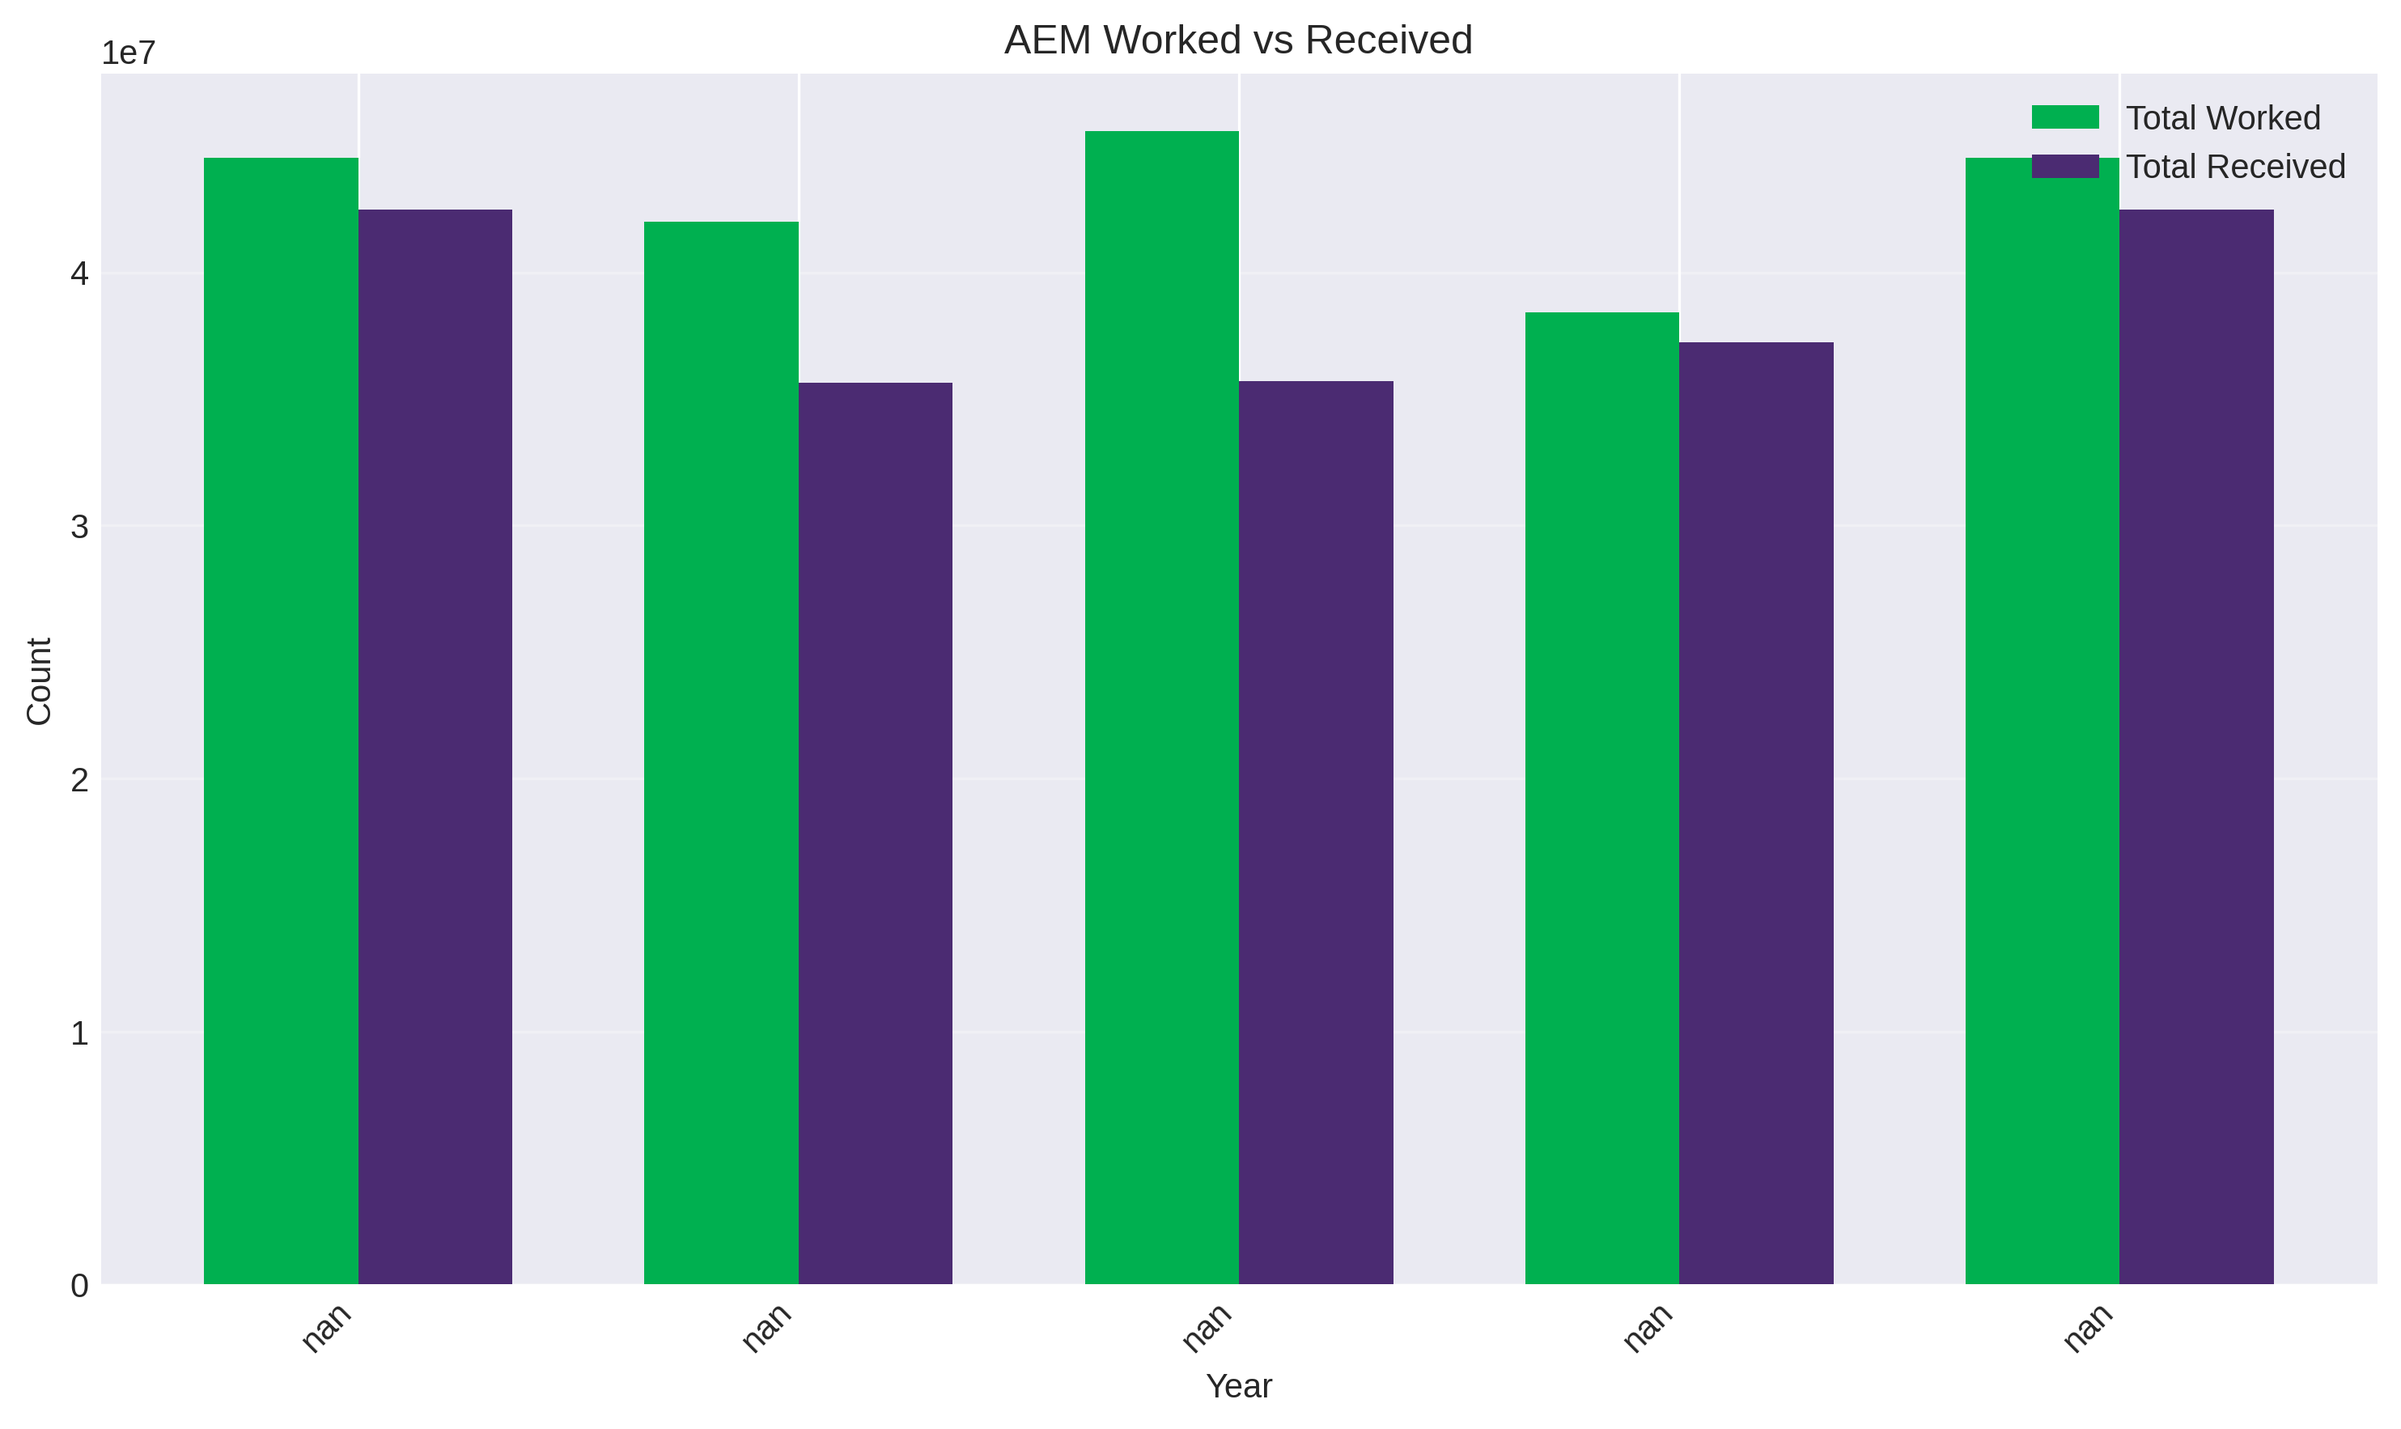
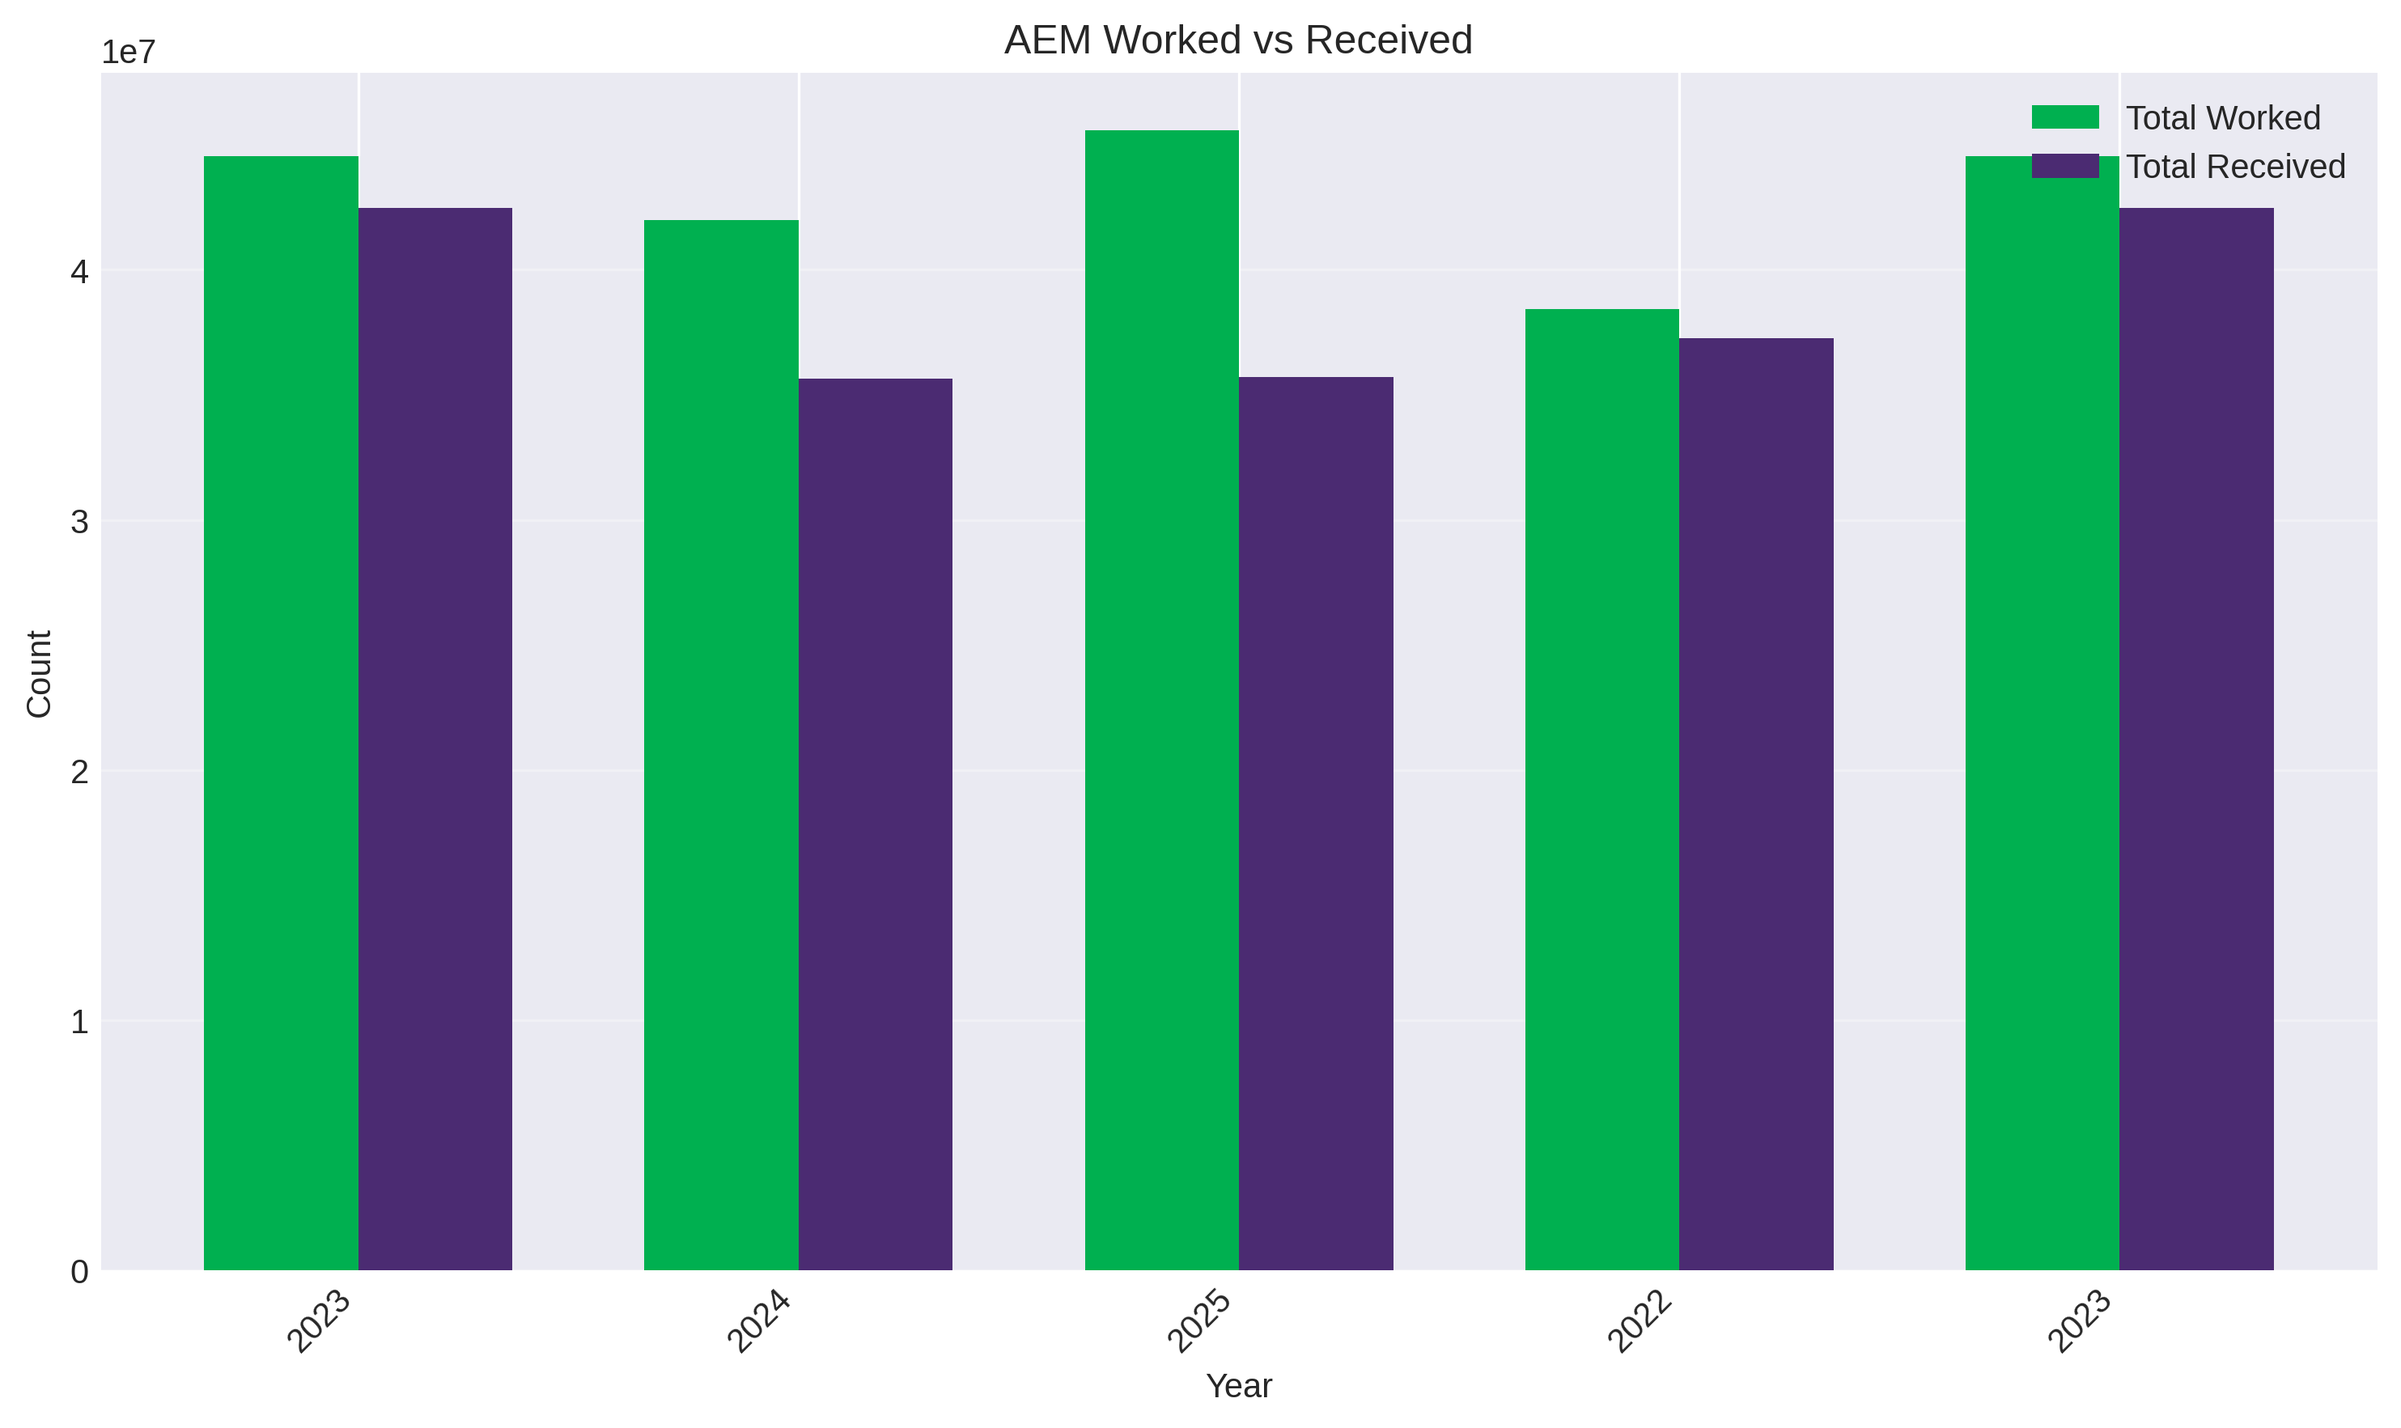
Auto-generate toll reports

diff --git a/reports/index.html b/reports/index.html
@@ -1,1 +1,1 @@
-<!DOCTYPE html><html><head><meta charset="UTF-8"><title>Toll Reports</title><style>body{font-family:Arial;background:#f0f0f0;padding:20px}.container{max-width:1600px;margin:0 auto;background:white;border-radius:10px;padding:40px}header{text-align:center;border-bottom:4px solid #4B2B72;padding-bottom:20px;margin-bottom:30px}h1{color:#333;font-size:2.5em}.subtitle{color:#00B050;font-weight:bold}.legend{display:flex;justify-content:center;gap:40px;margin:20px 0}.legend-item{display:flex;align-items:center;gap:10px}.legend-color{width:30px;height:30px;border-radius:4px}.worked{background:#00B050}.received{background:#4B2B72}.section-title{color:#4B2B72;font-size:2em;font-weight:bold;margin:30px 0 20px 0;border-bottom:3px solid #00B050;padding-bottom:10px}.system-title{color:#4B2B72;font-size:1.5em;margin:20px 0 10px 0}.wrapper{display:grid;grid-template-columns:1fr 1fr;gap:30px}table{width:100%;border-collapse:collapse}th{background:#4B2B72;color:white;padding:10px}td{padding:8px;border:1px solid #ddd}img{max-width:100%;border-radius:5px}footer{text-align:center;margin-top:50px;border-top:2px solid #4B2B72;padding-top:20px}</style></head><body><div class="container"><header><h1>📊 Toll Reports Dashboard</h1><div class="subtitle">Monthly, Quarterly & Yearly Performance Analysis</div></header><div class="legend"><div class="legend-item"><div class="legend-color worked"></div>Total Worked</div><div class="legend-item"><div class="legend-color received"></div>Total Received</div></div><section><h2 class="section-title">📈 Yearly Performance</h2><div class="system-title">Misoteps Yearly</div><div class="wrapper"><div><table><tr><th>Period</th><th>Worked</th><th>Received</th></tr><tr><td>nan</td><td>1,561,399</td><td>1,505,273</td></tr><tr><td>nan</td><td>1,325,603</td><td>1,238,962</td></tr><tr><td>nan</td><td>1,751,372</td><td>3,690,747</td></tr><tr><td>nan</td><td>1,659,574</td><td>1,704,622</td></tr><tr><td>nan</td><td>1,561,399</td><td>1,505,273</td></tr></table></div><div><img src="graphs/yearly_misoteps.png"></div></div><div class="system-title">IMIS Yearly</div><div class="wrapper"><div><table><tr><th>Period</th><th>Worked</th><th>Received</th></tr><tr><td>nan</td><td>231,735</td><td>232,948</td></tr><tr><td>nan</td><td>210,289</td><td>208,899</td></tr><tr><td>nan</td><td>554,032</td><td>553,867</td></tr><tr><td>nan</td><td>357,614</td><td>359,412</td></tr><tr><td>nan</td><td>231,735</td><td>232,948</td></tr></table></div><div><img src="graphs/yearly_imis.png"></div></div><div class="system-title">AEM Yearly</div><div class="wrapper"><div><table><tr><th>Period</th><th>Worked</th><th>Received</th></tr><tr><td>nan</td><td>44,534,448</td><td>42,466,979</td></tr><tr><td>nan</td><td>41,987,574</td><td>35,630,039</td></tr><tr><td>nan</td><td>45,586,017</td><td>35,716,493</td></tr><tr><td>nan</td><td>38,421,455</td><td>37,251,655</td></tr><tr><td>nan</td><td>44,534,448</td><td>42,466,979</td></tr></table></div><div><img src="graphs/yearly_aem.png"></div></div></section><section><h2 class="section-title">📊 Quarterly Performance</h2><div class="system-title">Misoteps Quarterly</div><div class="wrapper"><div><table><tr><th>Quarter</th><th>Worked</th><th>Received</th></tr><tr><td>Q1</td><td>1,561,399</td><td>1,505,273</td></tr><tr><td>Q2</td><td>1,325,603</td><td>1,238,962</td></tr><tr><td>Q3</td><td>1,751,372</td><td>3,690,747</td></tr><tr><td>Q4</td><td>1,659,574</td><td>1,704,622</td></tr></table></div><div><img src="graphs/quarterly_misoteps.png"></div></div><div class="system-title">IMIS Quarterly</div><div class="wrapper"><div><table><tr><th>Quarter</th><th>Worked</th><th>Received</th></tr><tr><td>Q1</td><td>231,735</td><td>232,948</td></tr><tr><td>Q2</td><td>210,289</td><td>208,899</td></tr><tr><td>Q3</td><td>554,032</td><td>553,867</td></tr><tr><td>Q4</td><td>357,614</td><td>359,412</td></tr></table></div><div><img src="graphs/quarterly_imis.png"></div></div><div class="system-title">AEM Quarterly</div><div class="wrapper"><div><table><tr><th>Quarter</th><th>Worked</th><th>Received</th></tr><tr><td>Q1</td><td>44,534,448</td><td>42,466,979</td></tr><tr><td>Q2</td><td>41,987,574</td><td>35,630,039</td></tr><tr><td>Q3</td><td>45,586,017</td><td>35,716,493</td></tr><tr><td>Q4</td><td>38,421,455</td><td>37,251,655</td></tr></table></div><div><img src="graphs/quarterly_aem.png"></div></div></section><section><h2 class="section-title">📅 Monthly Performance</h2><div class="system-title">Misoteps Monthly</div><div class="wrapper"><div><table><tr><th>Month</th><th>Worked</th><th>Received</th></tr><tr><td>Jan</td><td>1,561,399</td><td>1,505,273</td></tr><tr><td>Feb</td><td>1,325,603</td><td>1,238,962</td></tr><tr><td>Mar</td><td>1,751,372</td><td>3,690,747</td></tr><tr><td>Apr</td><td>1,659,574</td><td>1,704,622</td></tr><tr><td>May</td><td>1,561,399</td><td>1,505,273</td></tr><tr><td>Jun</td><td>1,325,603</td><td>1,238,962</td></tr><tr><td>Jul</td><td>1,751,372</td><td>3,690,747</td></tr><tr><td>Aug</td><td>71,645</td><td>57,851</td></tr><tr><td>Sep</td><td>68,201</td><td>129,513</td></tr><tr><td>Oct</td><td>61,039</td><td>111,029</td></tr><tr><td>Nov</td><td>56,508</td><td>94,254</td></tr><tr><td>Dec</td><td>114,033</td><td>91,958</td></tr></table></div><div><img src="graphs/monthly_misoteps.png"></div></div><div class="system-title">IMIS Monthly</div><div class="wrapper"><div><table><tr><th>Month</th><th>Worked</th><th>Received</th></tr><tr><td>Jan</td><td>231,735</td><td>232,948</td></tr><tr><td>Feb</td><td>210,289</td><td>208,899</td></tr><tr><td>Mar</td><td>554,032</td><td>553,867</td></tr><tr><td>Apr</td><td>357,614</td><td>359,412</td></tr><tr><td>May</td><td>231,735</td><td>232,948</td></tr><tr><td>Jun</td><td>210,289</td><td>208,899</td></tr><tr><td>Jul</td><td>554,032</td><td>553,867</td></tr><tr><td>Aug</td><td>18,123</td><td>18,283</td></tr><tr><td>Sep</td><td>13,599</td><td>13,759</td></tr><tr><td>Oct</td><td>12,270</td><td>12,430</td></tr><tr><td>Nov</td><td>17,673</td><td>17,513</td></tr><tr><td>Dec</td><td>36,130</td><td>36,131</td></tr></table></div><div><img src="graphs/monthly_imis.png"></div></div><div class="system-title">AEM Monthly</div><div class="wrapper"><div><table><tr><th>Month</th><th>Worked</th><th>Received</th></tr><tr><td>Jan</td><td>44,534,448</td><td>42,466,979</td></tr><tr><td>Feb</td><td>41,987,574</td><td>35,630,039</td></tr><tr><td>Mar</td><td>45,586,017</td><td>35,716,493</td></tr><tr><td>Apr</td><td>38,421,455</td><td>37,251,655</td></tr><tr><td>May</td><td>44,534,448</td><td>42,466,979</td></tr><tr><td>Jun</td><td>41,987,574</td><td>35,630,039</td></tr><tr><td>Jul</td><td>45,586,017</td><td>35,716,493</td></tr><tr><td>Aug</td><td>3,291,174</td><td>2,643,262</td></tr><tr><td>Sep</td><td>3,441,316</td><td>2,758,836</td></tr><tr><td>Oct</td><td>3,740,054</td><td>3,092,192</td></tr><tr><td>Nov</td><td>4,253,086</td><td>3,477,365</td></tr><tr><td>Dec</td><td>3,450,952</td><td>2,571,681</td></tr></table></div><div><img src="graphs/monthly_aem.png"></div></div></section><footer>Last Updated: September 17, 2026</footer></div></body></html>
+<!DOCTYPE html><html><head><meta charset="UTF-8"><title>Toll Reports</title><style>body{font-family:Arial;background:#f0f0f0;padding:20px}.container{max-width:1600px;margin:0 auto;background:white;border-radius:10px;padding:40px}header{text-align:center;border-bottom:4px solid #4B2B72;padding-bottom:20px;margin-bottom:30px}h1{color:#333;font-size:2.5em}.subtitle{color:#00B050;font-weight:bold}.legend{display:flex;justify-content:center;gap:40px;margin:20px 0}.legend-item{display:flex;align-items:center;gap:10px}.legend-color{width:30px;height:30px;border-radius:4px}.worked{background:#00B050}.received{background:#4B2B72}.section-title{color:#4B2B72;font-size:2em;font-weight:bold;margin:30px 0 20px 0;border-bottom:3px solid #00B050;padding-bottom:10px}.system-title{color:#4B2B72;font-size:1.5em;margin:20px 0 10px 0}.wrapper{display:grid;grid-template-columns:1fr 1fr;gap:30px}table{width:100%;border-collapse:collapse}th{background:#4B2B72;color:white;padding:10px}td{padding:8px;border:1px solid #ddd}img{max-width:100%;border-radius:5px}footer{text-align:center;margin-top:50px;border-top:2px solid #4B2B72;padding-top:20px}</style></head><body><div class="container"><header><h1>📊 Toll Reports Dashboard</h1><div class="subtitle">Monthly, Quarterly & Yearly Performance Analysis</div></header><div class="legend"><div class="legend-item"><div class="legend-color worked"></div>Total Worked</div><div class="legend-item"><div class="legend-color received"></div>Total Received</div></div><section><h2 class="section-title">📈 Yearly Performance</h2><div class="system-title">Misoteps Yearly</div><div class="wrapper"><div><table><tr><th>Year</th><th>Worked</th><th>Received</th></tr><tr><td>2023</td><td>1,561,399</td><td>1,505,273</td></tr><tr><td>2024</td><td>1,325,603</td><td>1,238,962</td></tr><tr><td>2025</td><td>1,751,372</td><td>3,690,747</td></tr><tr><td>2022</td><td>1,659,574</td><td>1,704,622</td></tr><tr><td>2023</td><td>1,561,399</td><td>1,505,273</td></tr></table></div><div><img src="graphs/yearly_misoteps.png"></div></div><div class="system-title">IMIS Yearly</div><div class="wrapper"><div><table><tr><th>Year</th><th>Worked</th><th>Received</th></tr><tr><td>2023</td><td>231,735</td><td>232,948</td></tr><tr><td>2024</td><td>210,289</td><td>208,899</td></tr><tr><td>2025</td><td>554,032</td><td>553,867</td></tr><tr><td>2022</td><td>357,614</td><td>359,412</td></tr><tr><td>2023</td><td>231,735</td><td>232,948</td></tr></table></div><div><img src="graphs/yearly_imis.png"></div></div><div class="system-title">AEM Yearly</div><div class="wrapper"><div><table><tr><th>Year</th><th>Worked</th><th>Received</th></tr><tr><td>2023</td><td>44,534,448</td><td>42,466,979</td></tr><tr><td>2024</td><td>41,987,574</td><td>35,630,039</td></tr><tr><td>2025</td><td>45,586,017</td><td>35,716,493</td></tr><tr><td>2022</td><td>38,421,455</td><td>37,251,655</td></tr><tr><td>2023</td><td>44,534,448</td><td>42,466,979</td></tr></table></div><div><img src="graphs/yearly_aem.png"></div></div></section><section><h2 class="section-title">📊 Quarterly Performance</h2><div class="system-title">Misoteps Quarterly</div><div class="wrapper"><div><table><tr><th>Quarter</th><th>Worked</th><th>Received</th></tr><tr><td>Q1</td><td>1,561,399</td><td>1,505,273</td></tr><tr><td>Q2</td><td>1,325,603</td><td>1,238,962</td></tr><tr><td>Q3</td><td>1,751,372</td><td>3,690,747</td></tr><tr><td>Q4</td><td>1,659,574</td><td>1,704,622</td></tr></table></div><div><img src="graphs/quarterly_misoteps.png"></div></div><div class="system-title">IMIS Quarterly</div><div class="wrapper"><div><table><tr><th>Quarter</th><th>Worked</th><th>Received</th></tr><tr><td>Q1</td><td>231,735</td><td>232,948</td></tr><tr><td>Q2</td><td>210,289</td><td>208,899</td></tr><tr><td>Q3</td><td>554,032</td><td>553,867</td></tr><tr><td>Q4</td><td>357,614</td><td>359,412</td></tr></table></div><div><img src="graphs/quarterly_imis.png"></div></div><div class="system-title">AEM Quarterly</div><div class="wrapper"><div><table><tr><th>Quarter</th><th>Worked</th><th>Received</th></tr><tr><td>Q1</td><td>44,534,448</td><td>42,466,979</td></tr><tr><td>Q2</td><td>41,987,574</td><td>35,630,039</td></tr><tr><td>Q3</td><td>45,586,017</td><td>35,716,493</td></tr><tr><td>Q4</td><td>38,421,455</td><td>37,251,655</td></tr></table></div><div><img src="graphs/quarterly_aem.png"></div></div></section><section><h2 class="section-title">📅 Monthly Performance</h2><div class="system-title">Misoteps Monthly</div><div class="wrapper"><div><table><tr><th>Month</th><th>Worked</th><th>Received</th></tr><tr><td>Jan</td><td>1,561,399</td><td>1,505,273</td></tr><tr><td>Feb</td><td>1,325,603</td><td>1,238,962</td></tr><tr><td>Mar</td><td>1,751,372</td><td>3,690,747</td></tr><tr><td>Apr</td><td>1,659,574</td><td>1,704,622</td></tr><tr><td>May</td><td>1,561,399</td><td>1,505,273</td></tr><tr><td>Jun</td><td>1,325,603</td><td>1,238,962</td></tr><tr><td>Jul</td><td>1,751,372</td><td>3,690,747</td></tr><tr><td>Aug</td><td>71,645</td><td>57,851</td></tr><tr><td>Sep</td><td>68,201</td><td>129,513</td></tr><tr><td>Oct</td><td>61,039</td><td>111,029</td></tr><tr><td>Nov</td><td>56,508</td><td>94,254</td></tr><tr><td>Dec</td><td>114,033</td><td>91,958</td></tr></table></div><div><img src="graphs/monthly_misoteps.png"></div></div><div class="system-title">IMIS Monthly</div><div class="wrapper"><div><table><tr><th>Month</th><th>Worked</th><th>Received</th></tr><tr><td>Jan</td><td>231,735</td><td>232,948</td></tr><tr><td>Feb</td><td>210,289</td><td>208,899</td></tr><tr><td>Mar</td><td>554,032</td><td>553,867</td></tr><tr><td>Apr</td><td>357,614</td><td>359,412</td></tr><tr><td>May</td><td>231,735</td><td>232,948</td></tr><tr><td>Jun</td><td>210,289</td><td>208,899</td></tr><tr><td>Jul</td><td>554,032</td><td>553,867</td></tr><tr><td>Aug</td><td>18,123</td><td>18,283</td></tr><tr><td>Sep</td><td>13,599</td><td>13,759</td></tr><tr><td>Oct</td><td>12,270</td><td>12,430</td></tr><tr><td>Nov</td><td>17,673</td><td>17,513</td></tr><tr><td>Dec</td><td>36,130</td><td>36,131</td></tr></table></div><div><img src="graphs/monthly_imis.png"></div></div><div class="system-title">AEM Monthly</div><div class="wrapper"><div><table><tr><th>Month</th><th>Worked</th><th>Received</th></tr><tr><td>Jan</td><td>44,534,448</td><td>42,466,979</td></tr><tr><td>Feb</td><td>41,987,574</td><td>35,630,039</td></tr><tr><td>Mar</td><td>45,586,017</td><td>35,716,493</td></tr><tr><td>Apr</td><td>38,421,455</td><td>37,251,655</td></tr><tr><td>May</td><td>44,534,448</td><td>42,466,979</td></tr><tr><td>Jun</td><td>41,987,574</td><td>35,630,039</td></tr><tr><td>Jul</td><td>45,586,017</td><td>35,716,493</td></tr><tr><td>Aug</td><td>3,291,174</td><td>2,643,262</td></tr><tr><td>Sep</td><td>3,441,316</td><td>2,758,836</td></tr><tr><td>Oct</td><td>3,740,054</td><td>3,092,192</td></tr><tr><td>Nov</td><td>4,253,086</td><td>3,477,365</td></tr><tr><td>Dec</td><td>3,450,952</td><td>2,571,681</td></tr></table></div><div><img src="graphs/monthly_aem.png"></div></div></section><footer>Last Updated: September 18, 2026</footer></div></body></html>
